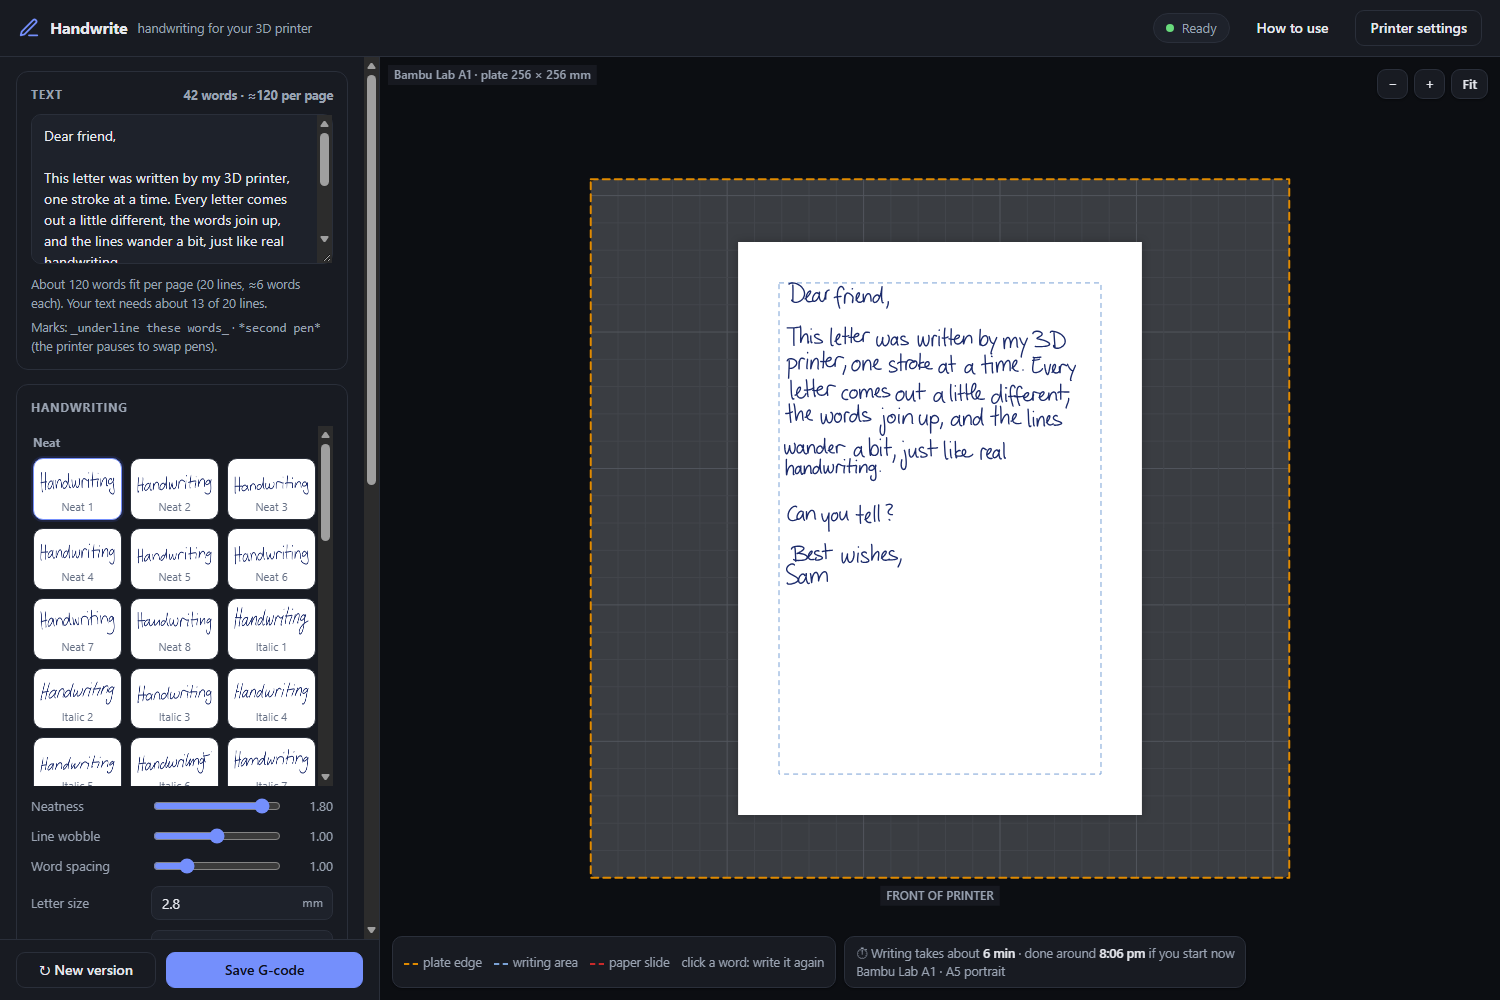
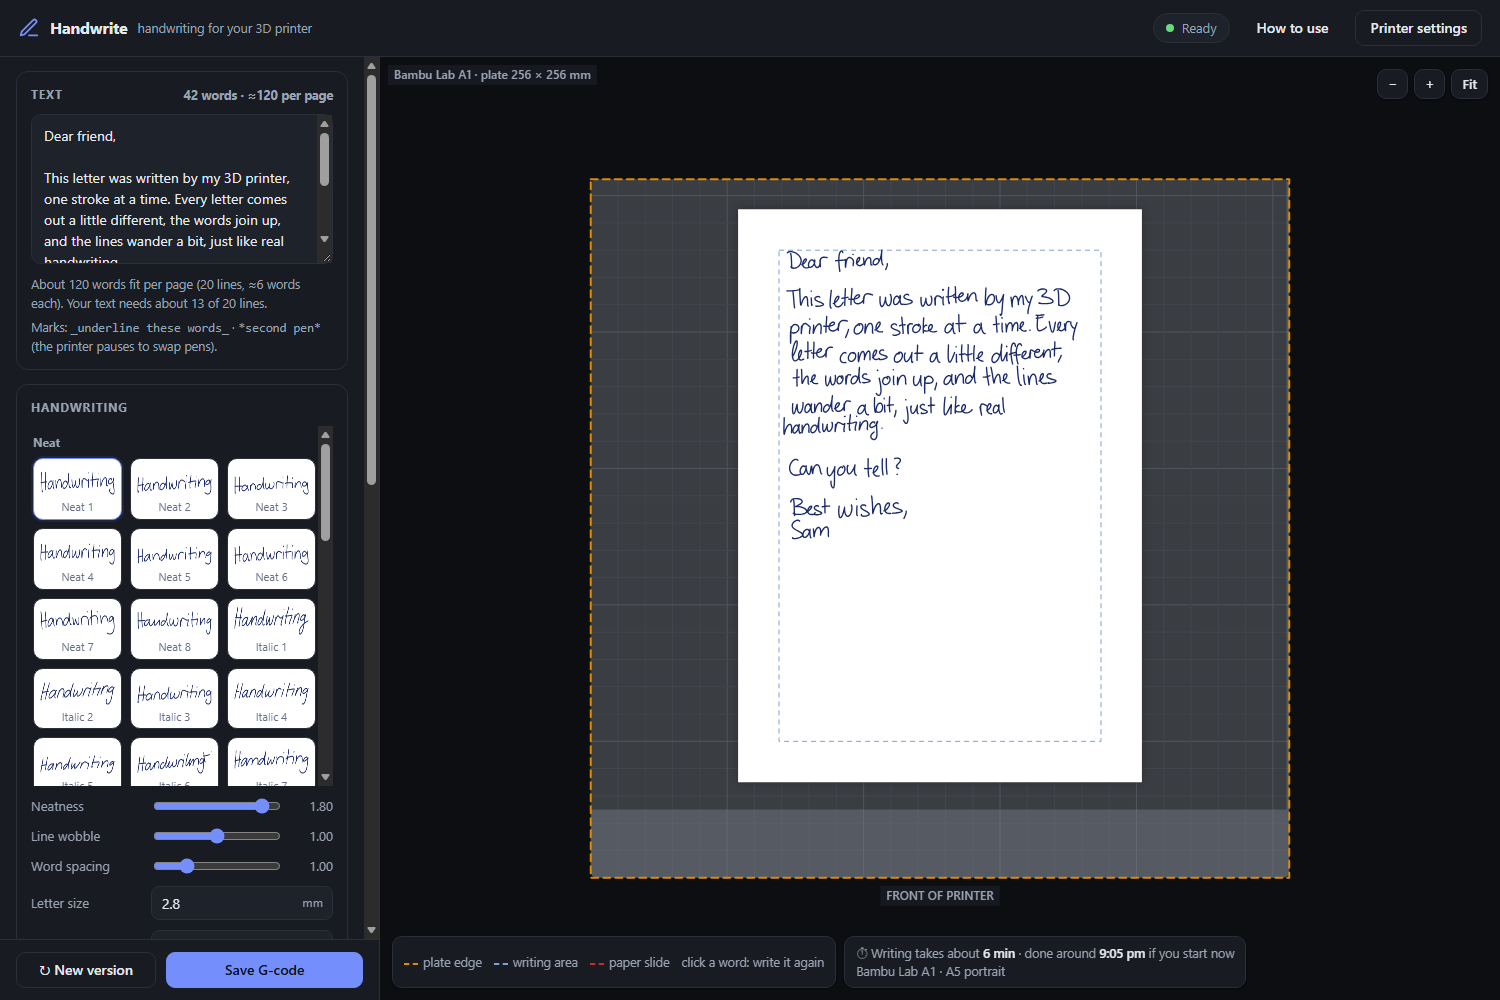
Default pen offset X 1, Y -25: the Plotter holder by Elli, measured with the offset test; guide and READMEs say so

Changed region(s): [[0.4907, 0.186, 0.7667, 0.589], [0.368, 0.775, 0.8587, 0.899]]

diff --git a/web/index.html b/web/index.html
@@ -304,6 +304,7 @@
         <div>
           <p>Handwrite is set up for <b>Plotter</b> by Elli: a pen holder that clips onto the print head of the A1 and A1 mini, no screws.
             It's made for Stabilo pens and fits similar-sized markers. To fit it, take the front cover off the print head.</p>
+          <p>Its pen offset, <b>X 1 · Y −25 mm</b>, is already the app's default, so with this holder you can skip calibrating.</p>
           <p class="small">Designed by Elli and shared free on MakerWorld, so it's downloaded from there.</p>
         </div>
         <a class="btn primary" href="https://makerworld.com/en/models/1247876-plotter#profileId-1269790" target="_blank" rel="noopener">Download the pen holder</a>
@@ -316,8 +317,9 @@
       <p class="kicker">Before your first print</p>
       <h2>Calibrate the pen offset</h2>
       <p class="intro">The pen sits a little beside the nozzle, usually in front of it. The app needs to know by how much, so the writing
-        lands where the preview shows it and the pen never runs off the front of the plate. If BambuPlot already works for you, just copy its
-        “tool offset” into <span class="ui">Printer settings → Pen offset</span>. Otherwise, print the offset test once:</p>
+        lands where the preview shows it and the pen never runs off the front of the plate. Using the <a href="#holder">Plotter holder</a>? Its offset is
+        X 1, Y −25 mm, already filled in (if you opened the app before, type it into <span class="ui">Printer settings → Pen offset</span>).
+        If BambuPlot already works for you, copy its “tool offset” there instead. Otherwise, print the offset test once:</p>
       <figure class="stepper" data-ms="5200">
         <div class="stage">
           <svg id="cal" data-stage="1" viewBox="0 0 400 392" role="img" aria-label="Offset test on the build plate, seen from above">
@@ -476,7 +478,7 @@
             <path class="dim" d="M98 52V80 M94 52H102"/><text x="104" y="68" class="dim-text" style="font-size:10px">10 mm</text>
             <path d="M61 52H96" stroke="#9aa3b2" stroke-dasharray="2 2"/>
           </svg></div></div>
-        <div class="card set"><div><h3>Pen offset</h3><p>Where the pen tip is compared with the nozzle. X is left/right (negative = pen to the left); Y is front/back (negative = pen in front). Measure it with the offset test.</p><span class="def">e.g. X −4.5 · Y −27</span></div>
+        <div class="card set"><div><h3>Pen offset</h3><p>Where the pen tip is compared with the nozzle. X is left/right (negative = pen to the left); Y is front/back (negative = pen in front). Measure it with the offset test.</p><span class="def">X 1 · Y −25 (Plotter holder)</span></div>
           <div class="viz"><svg viewBox="0 0 150 96" aria-hidden="true">
             <text x="6" y="11" class="lbl-dark" style="font-size:8px">↑ BACK</text><text x="6" y="92" class="lbl-dark" style="font-size:8px">↓ FRONT</text>
             <circle cx="100" cy="24" r="9" fill="#c7ccd4" stroke="#9aa3b2"/><text x="114" y="27" class="lbl-dark" style="font-size:9px">nozzle</text>

diff --git a/web/tests/gcode.test.js b/web/tests/gcode.test.js
@@ -71,7 +71,7 @@ test("NaN in strokes fails closed", () => {
 });
 
 test("P1/X1 filament-cutter corner is refused", () => {
-  const cfg = G.resolve(withSet({ "printer.model": "Bambu Lab P1P / P1S", "paper.size": "A6", "paper.x": 0, "paper.y": 0 }));
+  const cfg = G.resolve(withSet({ "printer.model": "Bambu Lab P1P / P1S", "printer.offset_x": 0, "printer.offset_y": 0, "paper.size": "A6", "paper.x": 0, "paper.y": 0 }));
   const corner = [{ shift: 0, strokes: [[[5, cfg.paper.height - 5], [6, cfg.paper.height - 5]]], hover: null }];
   assert.throws(() => G.toGcode(corner, cfg, ["t"]), G.WriteError);
 });
@@ -251,6 +251,12 @@ test("lines never write into the line above, even at full wobble", () => {
   }
 });
 
+test("defaults: the Plotter holder's offset, and the paper where placePaper puts it", () => {
+  const s = G.DEFAULT_SETTINGS;
+  assert.deepStrictEqual(G.offsetFromTest(s, 106, 85), { offset_x: s.printer.offset_x, offset_y: s.printer.offset_y });
+  assert.deepStrictEqual(G.placePaper(G.resolve(s)), { x: s.paper.x, y: s.paper.y });
+});
+
 test("pen offset test: safe on every printer, and measuring it gives the offset back", () => {
   for (const model of Object.keys(G.PRINTERS).filter(m => G.PRINTERS[m])) {
     const s = withSet({ "printer.model": model, "printer.offset_x": 7, "printer.offset_y": -33 }); // the old offset must not matter
@@ -344,7 +350,7 @@ test("without sliding, the pen stops where it would leave the plate and the text
   }
   assert.throws(() => G.resolve(withSet({ "paper.slide": "yes" })), G.WriteError);
   // lines that would need a slide are refused rather than written with a pause nobody asked for
-  const noSlide = G.resolve(withSet({ "paper.size": "A4", "paper.x": 23, "paper.y": -40, "writing.wobble": 0 }));
+  const noSlide = G.resolve(withSet({ "printer.offset_y": 0, "paper.size": "A4", "paper.x": 23, "paper.y": -40, "writing.wobble": 0 }));
   const lines = G.layout(G.words(Array(32).fill("line of words").join("\n"), 4), oneStroke, { ...noSlide, paper: { ...noSlide.paper, slide: true } }, mulberry(4));
   assert.ok(G.planPasses(lines, { ...noSlide, paper: { ...noSlide.paper, slide: true } }).length > 1, "this text needs a slide");
   assert.throws(() => G.planPasses(lines, noSlide), /sliding the paper/);

diff --git a/web/gcode.js b/web/gcode.js
@@ -145,13 +145,15 @@
   const tune = (model, name) => ["M17", "M400 S1", "M1006 S1",
     ...tuneOf(model, name).map(s => "M1006 " + s.map((v, i) => "ABLCDMEFN"[i] + v).join(" ")), "M1006 W"];
 
+  // Pen offset: the "Plotter" pen holder by Elli (MakerWorld 1247876) on an A1, from the offset test (short mark 106, long line 85).
+  // paper x/y: placePaper() of these defaults, so the first page sits where the pen reaches.
   const DEFAULT_SETTINGS = {
-    printer: { model: "Bambu Lab A1", bed_x: 256, bed_y: 256, bed_z: 150, offset_x: 0, offset_y: 0,
+    printer: { model: "Bambu Lab A1", bed_x: 256, bed_y: 256, bed_z: 150, offset_x: 1, offset_y: -25,
       paper_pause_s: 30, pen_pause_s: 30, shift_pause_s: 45, z_draw: 10, z_lift: 12,
       z_feed: 600, draw_feed: 1500, travel_feed: 6000, settle_ms: 60, sounds: true, dry_run: false },
     // ruling: mm between the printed lines of ruled paper (0 = plain); first_line: mm from the top edge to the first
     // printed line; margin_line: mm from the left edge to the printed margin line (0 = none)
-    paper: { size: "A5", orientation: "portrait", x: 54, y: 23, width: 148, height: 210, margin: 15, margin_y: 15, slide: false,
+    paper: { size: "A5", orientation: "portrait", x: 55, y: 10, width: 148, height: 210, margin: 15, margin_y: 15, slide: false,
       ruling: 0, first_line: 20, margin_line: 0 },
     writing: { style: "s:neat-1", bias: 1.8, wobble: 1, x_height: 2.8, line_spacing: 8, word_spacing: 1, header: "", page_numbers: false },
   };

diff --git a/README.md b/README.md
@@ -73,6 +73,9 @@ Do a dry run first, and stay with the printer the first time.
 The pen sits a little to the side of the nozzle. The app needs to know by how much, so the writing lands where the
 preview shows it and the pen never runs off the edge of the plate.
 
+With the [Plotter holder](https://makerworld.com/en/models/1247876-plotter#profileId-1269790) the offset is **X 1, Y −25 mm**, and that's the
+default, so you can skip this. For any other holder:
+
 1. In **Printer settings → Pen offset**, click **Save offset test G-code** and run it.
 2. Push an A4 sheet into the **top-left (far-left) corner** of the plate, with its top and left edges against the plate's edges.
 3. The pen draws a long line and a short mark. Measure how far the long line is below the paper's top edge,
